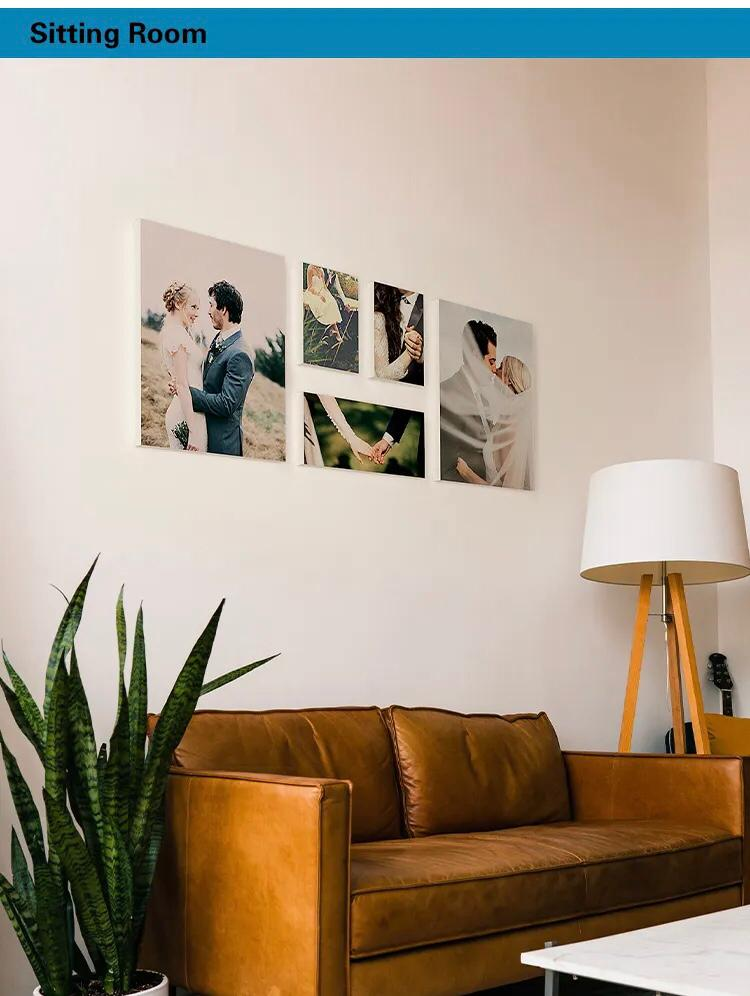
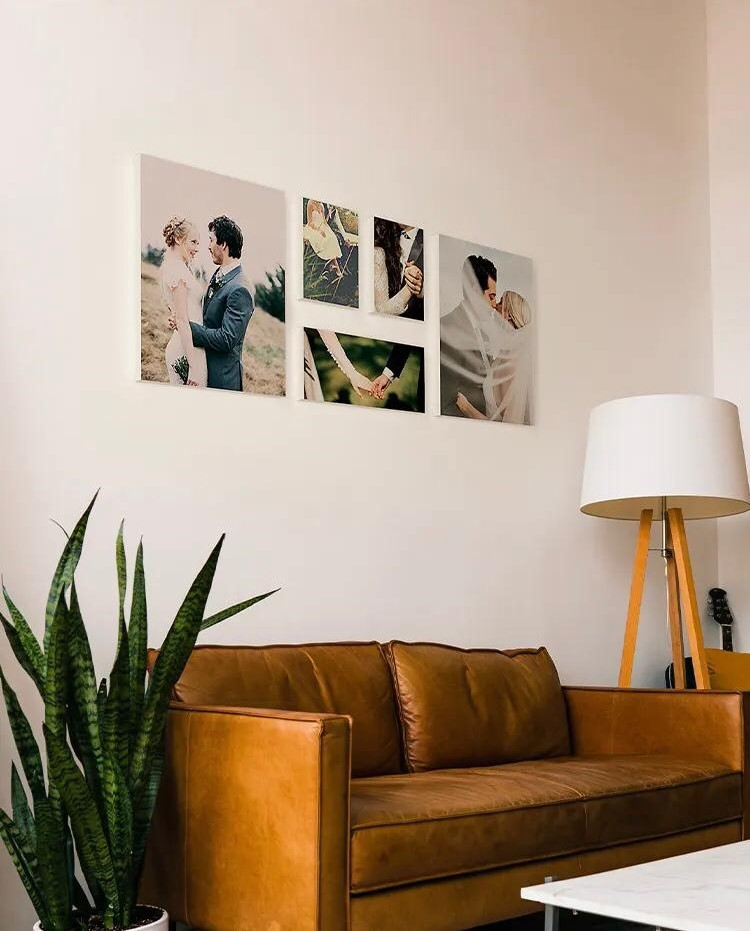
pics

diff --git a/src/Pages/CSS/Hero.css b/src/Pages/CSS/Hero.css
@@ -1,0 +1,168 @@
+.about_us{
+    background: #f8f3f3; 
+    overflow: hidden;  
+ }
+ .about-heading h1{
+     color:#000 ;
+     font-size: 45px;
+     text-align: center;
+     margin-top: 35px;
+ }
+
+ .about-heading h1::after{
+    content: "";
+    height: 4px;
+    width: 230px;
+    background: #e11e25;
+    display: block;
+    margin: auto;
+}
+ .about-container{
+     display: flex;
+     justify-content: center;
+     align-items: center;
+     width: 90%;
+     margin:65px auto ;
+ } 
+ .about-containerxy{
+    display: flex;
+    /* justify-content: center; */
+    /* align-items: center; */
+    width: 90%;
+    margin:65px auto ; 
+}
+ .ahbout-hero-content{
+     flex: 1;
+     width:600px ;
+     margin: 0px 25px;
+     text-align: left;
+     animation: fadeInUp 2s ease;
+ }
+ .ahbout-hero-image{
+     flex: 1;
+     width: 600px;
+     margin: auto;
+     animation: fadeInRight 2s ease;
+     height: 450px;
+ 
+ }
+ .ahbout-hero-content h2{
+     font-size: 38px;
+     margin-bottom: 20px;
+     color: #333;
+ }
+ .ahbout-hero-content ul li{
+     font-size: 18px;
+     line-height: 1.3;
+     margin-bottom: 10px;
+     color: #667;
+ }
+ .ahbout-hero-content ol li{
+    font-size: 18px;
+    line-height: 1.3;
+    margin-bottom: 10px;
+    color: #667;
+}
+ .ahbout-hero-content p {
+    font-size: 18px;
+    line-height: 1.3;
+    margin-bottom: 10px;
+    color: #667;
+}
+
+ /* .about-hero-content ol li{
+    font-size:18px ;
+    margin-bottom:20px ;
+    color: red;
+} */
+ 
+ .ahbout-hero-content button{
+     display: inline-block;
+     background:#e11e25;
+     color: #ffff;
+     padding: 12px 24px;
+     border-radius: 5px;
+     font-size: 20px;
+     border:none ;
+     cursor: pointer;
+     transition: 0.3s ease; 
+     margin-left: 30px;
+ 
+ }
+ 
+ .ahbout-hero-content button:hover{
+     background: #ff6347;
+     transform: scale(1.1);
+ }
+ 
+ img{
+     width: 90%;
+     height: auto;
+     border-radius: 10px;
+ }
+ 
+ @media screen and (max-width:768px) {
+     .about-heading h1{
+       font-size: 45px;  
+       margin-top: 30px;
+     }
+     .about_us{
+         margin: 0px;
+     }
+ 
+     .about-container{
+         width: 100%;
+         flex-direction: column;
+         margin: 0px;
+         padding:0px 40px ;
+     } 
+     .about-containerxy{
+        width: 100%;
+        flex-direction: column;
+        margin: 0px;
+        padding:0px 40px ;
+    }
+     .ahbout-hero-content{
+         width: 100%;
+         margin: 35px 0px;
+     }
+ 
+     .ahbout-hero-content h2{
+         font-size:30px ;
+     }
+ 
+     .ahbout-hero-content p{
+         font-size:18px ;
+         margin-bottom:20px ;
+     }
+   
+     .ahbout-hero-content button{
+         font-size: 16px;
+         padding: 8px 16px;
+     }
+     .ahbout-hero-image{
+         width: 100%;
+     }
+     
+ }
+ 
+ @keyframes fadeInUp {
+     0%{
+         opacity: 0;
+         transform: translateY(50px);
+     }
+     100%{
+         opacity: 1;
+         transform: translateY(0px);
+     }
+ }
+ @keyframes fadeInRight {
+     0%{
+         opacity: 0;
+         transform: translateX(-50px);
+     }
+     100%{
+         opacity: 1;
+         transform: translateX(0px);
+     }
+ }

diff --git a/src/Pages/Hero.js b/src/Pages/Hero.js
@@ -3,15 +3,58 @@ import Landing from '../Components/Landing/Landing'
 import Carousel from '../Components/Carousel/Carousel'
 import Popular from "../Components/Popular/Popular"
 import Experience from "../Components/Experience/Experience"
+import "./CSS/Hero.css"
+// import bout from "../Components/Assets/frameurpics.jpg"
 
 
 const Hero = () => {
   return (
-    <div>
+    <div className='hero-landing-page'>
       <Landing />
-      <Carousel/>
       <Popular />
+      <section className='about_us'>
+        <div className='about-heading'>
+          <h1>Why Choose Us</h1>
+
+        </div>
+        <div className='about-container'>
+          <div className='ahbout-hero-content'>
+            <h2> Our Values</h2>
+            <ul>
+              <li>High-quality materials and craftsmanship </li>
+              <li>Strict delivery schedule </li>
+              <li> Competitive pricing </li>
+              <li>Strong technical force and well-equipped testing facilities </li>
+              <li>Guild Commended Framer with highly trained craftsmen </li>
+              <li> Over 8 years of industry expertise </li>
+            </ul>
+        
+            {/* <button className='about-cta-button'> Contact us</button> */}
+          </div>
+          <div className='ahbout-hero-content'>
+            <h2>Products</h2>
+            <ol>
+              <li>High-quality materials and craftsmanship </li>
+              <li>Strict delivery schedule </li>
+              <li> Competitive pricing </li>
+            </ol> 
+            <br/>
+           
+            <h2>Facilities and Capacity </h2>
+            <ul>
+              <li>High-quality materials and craftsmanship </li>
+              <li>Strict delivery schedule </li>
+              <li> Competitive pricing </li>
+            </ul>
+          </div>
+         
+        </div>
+
+      </section> 
+
       <Experience />
+      <Carousel/>
+
   
 
     </div>

diff --git a/src/Components/Footer/Footer.js b/src/Components/Footer/Footer.js
@@ -4,11 +4,13 @@ import { FaTiktok } from "react-icons/fa";
 import { FaFacebook } from "react-icons/fa";
 import { FaInstagram } from "react-icons/fa";
 import apf_logo from "../Assets/copylogo.jpg"
+import {useNavigate} from "react-router-dom"
 // import instagram_icon from "../Assets/instagram_icon.png"
 // import pintester_icon from "../Assets/pintester_icon.png"
 // import whatsapp_icon from "../Assets/whatsapp_icon.png"
 
 const Footer = () => {
+  const navigate = useNavigate();
   return (
     <div className='footer'>
         <div className='footer-logo'>
@@ -16,13 +18,13 @@ const Footer = () => {
             {/* <p>APF</p>  */}
         </div>
         <ul className='footer-links'>
-            <li>Company</li>
+            <li >Company</li>
             <li>Services</li>
             <li>FAQ</li>
             <li>Terms & Condition</li>
             <li>Products</li>
             <li>Offices</li>
-            <li>Privacy Policy</li>
+            <li onClick={() =>  navigate('privacypolicy/')}>Privacy Policy</li>
         </ul>
         <div className='footer-social-icon'>
             <div className='footer-icons-container'>

diff --git a/src/Pages/About.js b/src/Pages/About.js
@@ -39,7 +39,7 @@ const About = () => {
             <h2> Our Vision, Our Passion.</h2>
             <p>To deliver exceptional quality, customized photo frames and blocks that exceed customer expectations, while maintaining a reputation for excellence and commitment to customer satisfaction.
             </p>
-            {/* <button className='about-cta-button'> Contact us</button> */}
+            <button className='about-cta-button'> Contact us</button>
           </div>
          
         </div>

diff --git a/src/Components/Landing/Landing.js b/src/Components/Landing/Landing.js
@@ -1,7 +1,7 @@
 import React from 'react'
 import "./Landing.css"
-import tent1 from "../Assets/tent-1.jpg"
-import tent2 from "../Assets/tent-2.jpg"
+import tent1 from "../Assets/wall frame.jpg"
+import tent2 from "../Assets/table frame cut.jpg"
 import { FaLocationDot } from "react-icons/fa6";
 import { FaFacebook } from "react-icons/fa";
 import { FaInstagramSquare } from "react-icons/fa";

diff --git a/src/Pages/CSS/About.css b/src/Pages/CSS/About.css
@@ -57,11 +57,11 @@
      color: #667;
  }
 
- .about-hero-content ol li{
+ /* .about-hero-content ol li{
     font-size:18px ;
     margin-bottom:20px ;
     color: red;
-}
+} */
  
  .about-hero-content button{
      display: inline-block;
@@ -80,7 +80,6 @@
  .about-hero-content button:hover{
      background: #ff6347;
      transform: scale(1.1);
- 
  }
  
  img{

diff --git a/src/Components/Assets/data.js b/src/Components/Assets/data.js
@@ -1,7 +1,7 @@
-import p1_img from './tent-1.jpg'
-import p2_img from './tent-2.jpg'
-import p3_img from './bg cont.jpeg'
-import p4_img from './bout us.jpg'
+import p1_img from './fram 1.jpg'
+import p2_img from './fram 2.jpg'
+import p3_img from './frame diff size.jpg'
+import p4_img from './frame bleek.jpg'
 
 let data_product = [
   {

diff --git a/src/App.js b/src/App.js
@@ -21,7 +21,6 @@ function App() {
         <Route path="/product" element={<Product/>} />
         <Route path="/contact" element={<Contact/>} />
         <Route path="/privacypolicy" element={<PrivacyPolicy/>} />
-       
       </Routes>
       <Footer/>
       </BrowserRouter>

diff --git a/src/Components/Header/Header.css b/src/Components/Header/Header.css
@@ -63,7 +63,7 @@
 .maindrop{
     position:absolute;
     right:0%;
-    top:11.5%;
+    top:13.5%;
     background:#131312;
     color:rgb(24, 24, 23);
     padding: 25px;
